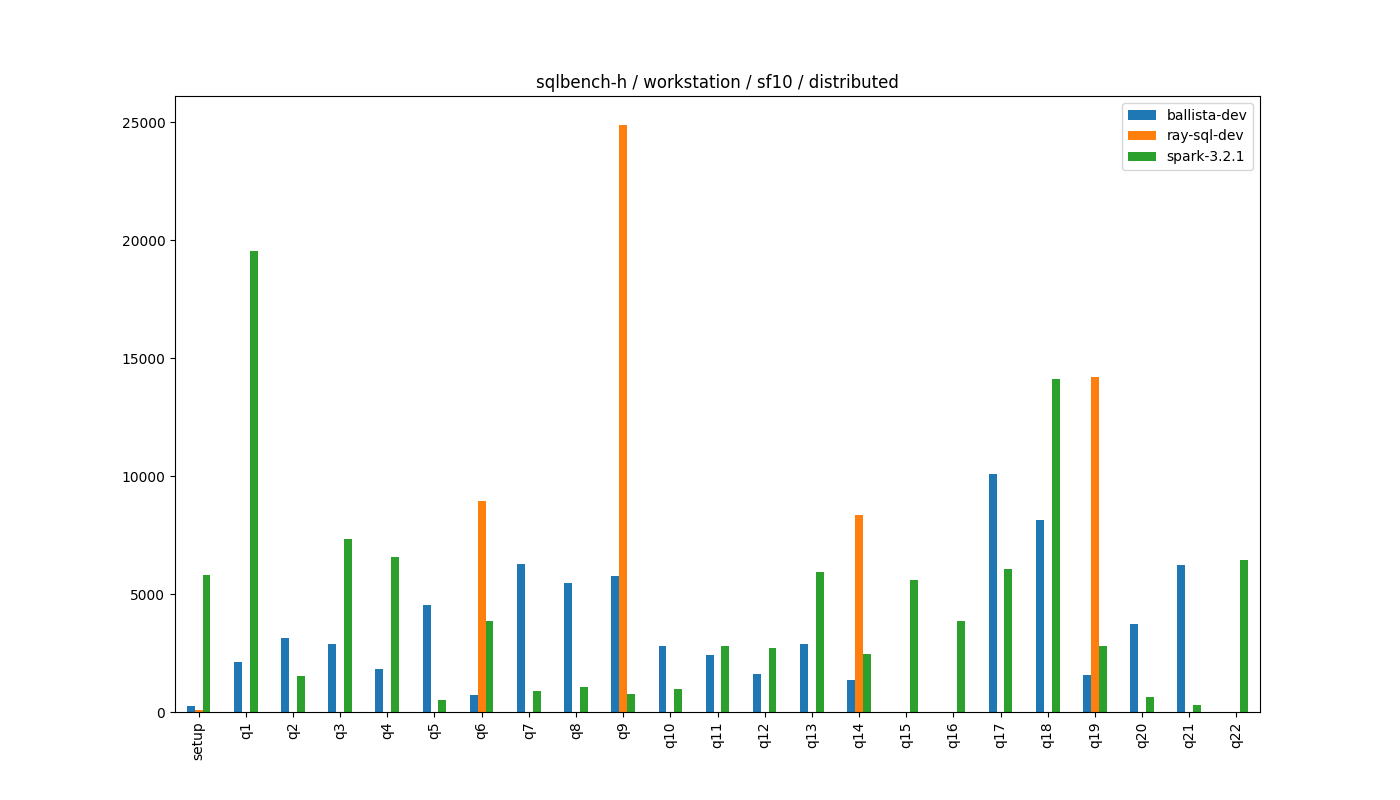
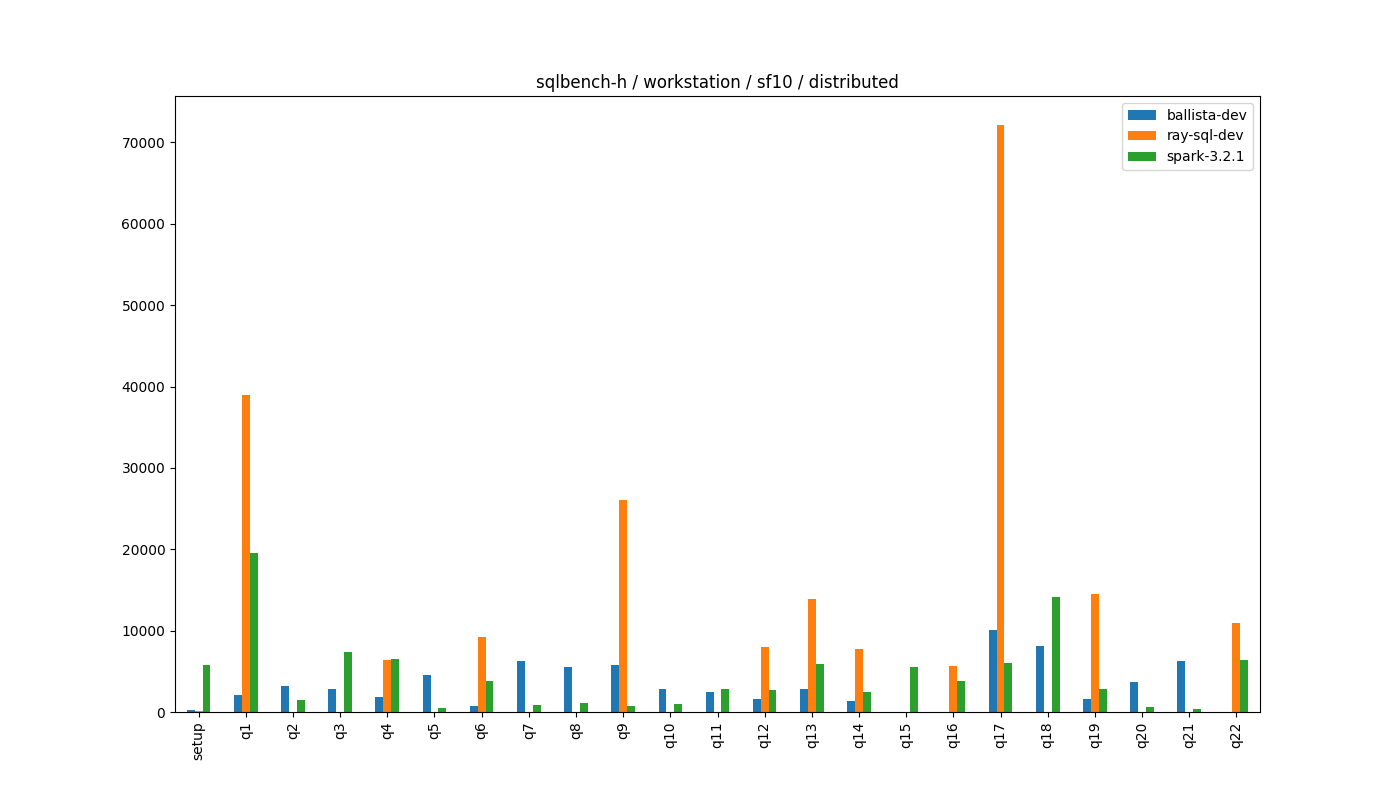
New results (#16)

diff --git a/README.md b/README.md
@@ -26,7 +26,7 @@ ctx.sql('select sex, smoker, avg(tip/total_bill) as tip_pct from tips group by s
 
 ## Status
 
-- Partially working. Can run a few TPC-H queries.
+- Partially working. Can run about half of the TPC-H benchmark queries.
 
 ## Features
 
@@ -41,8 +41,8 @@ ctx.sql('select sex, smoker, avg(tip/total_bill) as tip_pct from tips group by s
 
 This chart shows the relative performance of RaySQL compared to other open-source distributed SQL frameworks.
 
-Only a few queries work, and performance does not look very promising so far, but this may just be because of the naïve 
-distributed planner introducing unnecessary shuffles. 
+Performance does not look very promising so far, but this project was created in one weekend, so this is probably not 
+too bad a start.
 
 ![SQLBench-H Performance Chart](./docs/sqlbench-h-workstation-10-distributed-perquery.png)
 
